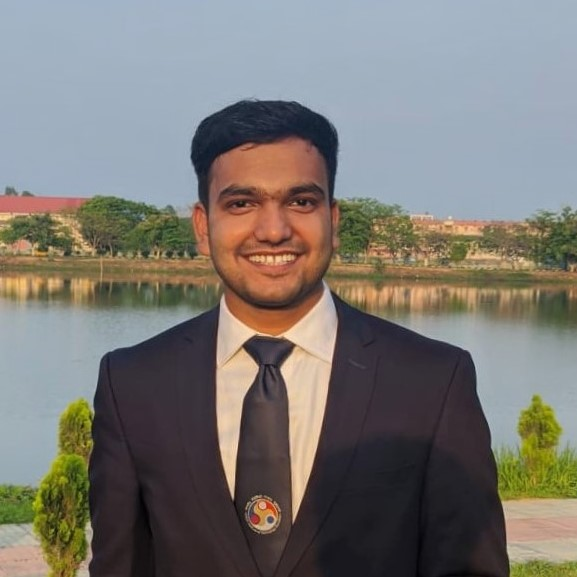
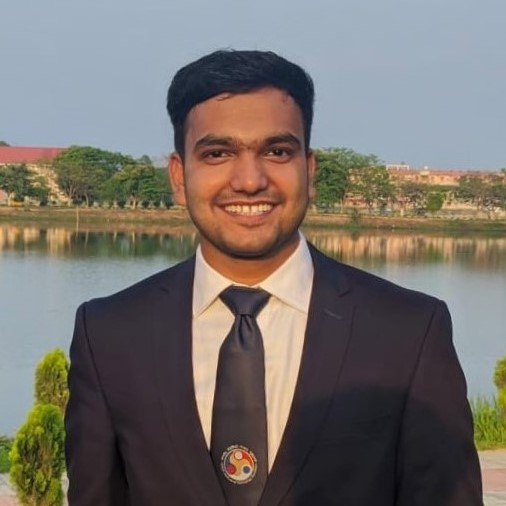
minor changes

diff --git a/index.html b/index.html
@@ -64,7 +64,7 @@
 
 
                             <tr style="padding:0px">
-                                <td style="padding:2.5%;width:20%;max-width:20%">
+                                <td style="padding:2.5%;width:30%;max-width:30%">
                                     <img style="width:100%;max-width:100%" alt="profile photo"
                                             src="/images/next.jpg" class="img-circle">
                                 </td>
